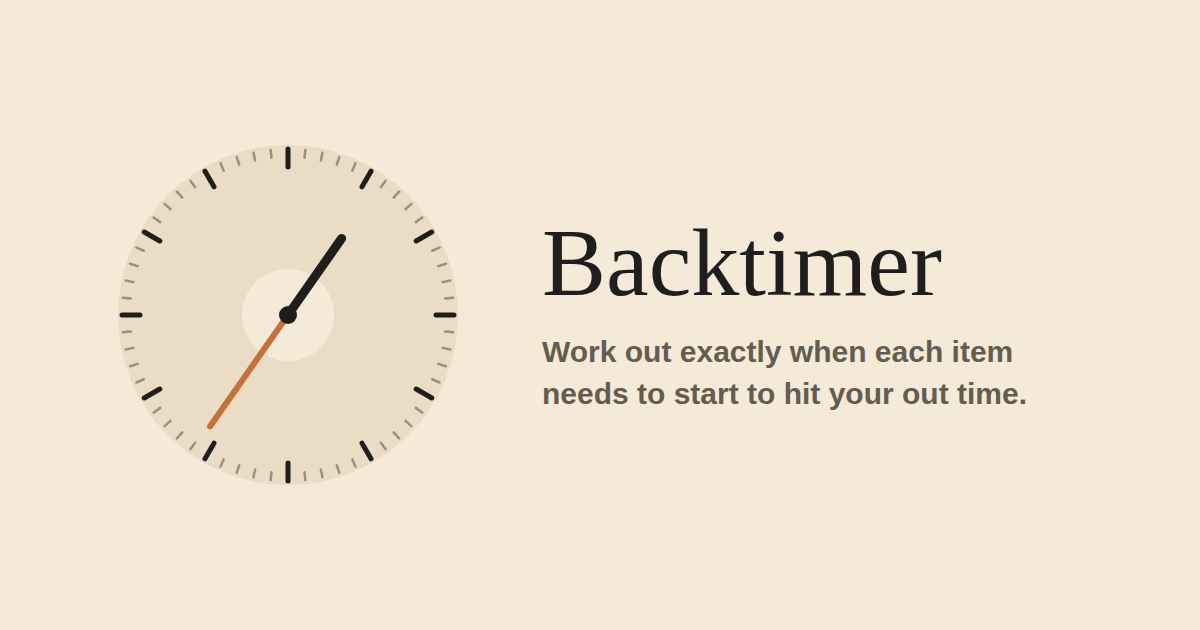
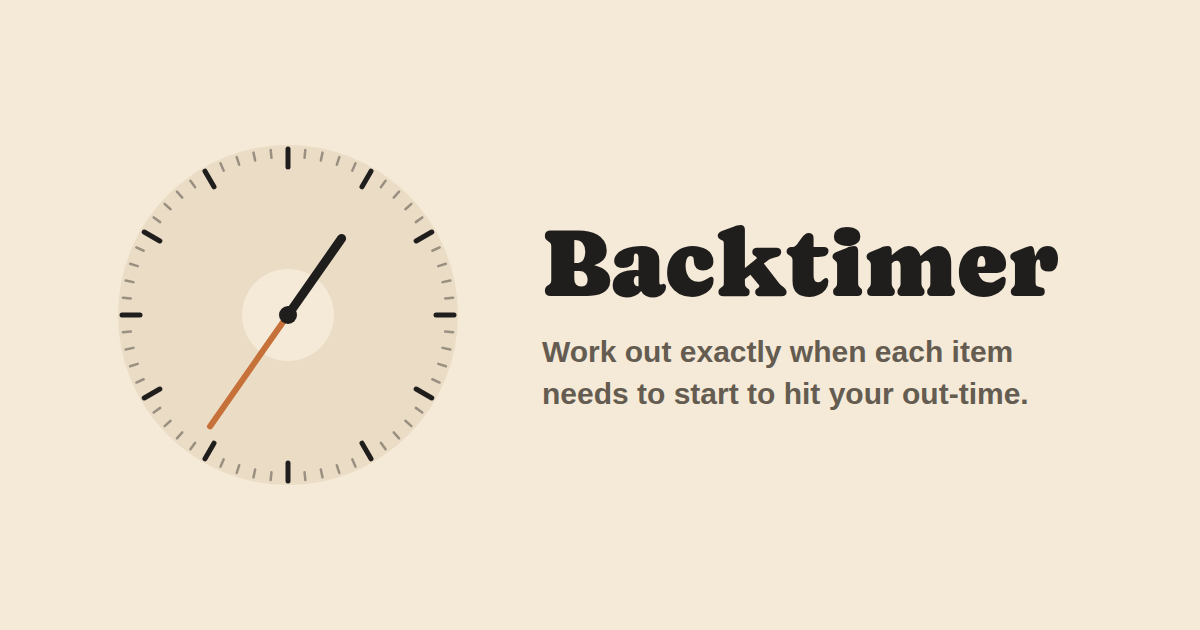
Rebuild og-backtimer.png with the actual brand font
It was quietly falling back to a generic serif instead of Caprasimo —
the old template loaded the font from Google Fonts over the network,
which this sandbox has never had access to, so it always silently
failed. Rebuilt using the same self-hosted-font approach already used
for og-clockmaker.png, and fixed "out time" -> "out-time" in the
tagline while in there (missed during the earlier hyphenation pass,
since that text is baked into the image, not read from a meta tag).

Claude-Session: https://claude.ai/code/session_01Hv3vzi3N2KXvuJUw6Q1r4e

Changed region(s): [[0.4317, 0.3619, 0.8942, 0.4825], [0.7708, 0.6032, 0.8633, 0.6635]]

diff --git a/CLAUDE.md b/CLAUDE.md
@@ -2377,3 +2377,54 @@ shipped slightly ahead of this. As of this commit, both are true
 together — the code that actually sends the anonymous visit data now
 exists, so once this deploys and John confirms data is flowing in
 Vercel's dashboard, the Guide text and the real behaviour are in sync.
+
+## `og-backtimer.png` rebuilt — was silently missing its brand font (2026-10-06)
+
+John spotted it himself, from real WhatsApp link-preview screenshots:
+Clockmaker's shared-link card showed "Clockmaker" in the bold Caprasimo
+display font, but Backtimer's card showed "Backtimer" in a plain
+generic serif — visibly inconsistent between the two apps' previews.
+
+Root cause, found by reading the actual two PNGs pixel-for-pixel rather
+than guessing from the file list: `og-clockmaker.png` was rebuilt on
+2026-10-04 (see that entry above) using a template that loads Caprasimo
+from a **local, self-hosted file** (`node_modules/@fontsource/
+caprasimo/.../*.woff2` via a `file://` URL) — specifically so it
+doesn't depend on network access. `og-backtimer.png` was never
+rebuilt at that time and still came from the *original* template
+(`og_template.html`, from the very first per-domain-OG-image work,
+2026-09-29), which loaded Caprasimo with a live `@import
+url('https://fonts.googleapis.com/...')`. This sandbox has no general
+outbound network access (confirmed repeatedly elsewhere in this
+project) — so that `@import` has always silently failed here, and the
+browser fell back to a plain generic `serif` for the title, which is
+exactly what shipped. Nobody caught it at the time because the
+original build never had anything to visually compare it against.
+
+**Also found and fixed while rebuilding it**: the image's tagline text
+still read "...to hit your out time." (unhyphenated) — missed during
+the 2026-10-04 "out-time" hyphenation pass, since that work correctly
+caught the matching text in `backtimer.html`'s `<meta>` tag but didn't
+think to check this image, where the same words are separately baked
+in as rendered pixels, not read from the tag at all.
+
+Fix: new template (not reusing `og-clockmaker-template.html` directly,
+since Backtimer's clock illustration is its own fine-ticked SVG design
+from the original `og_template.html`, deliberately not touched/
+redesigned here — only the font-loading mechanism and the text were
+wrong) — same `@font-face { src: url('file://...') }` self-hosted
+Caprasimo approach as `og-clockmaker.png`, same clock SVG/hand angles
+Backtimer's image always had, title text unchanged ("Backtimer"),
+tagline corrected to "...to hit your out-time." Rendered with
+Playwright at the same 1200×630, same as every other OG image in this
+project.
+
+Built and screenshotted for approval before touching the real file —
+same pattern as every other image asset in this project (favicons, the
+Clockmaker OG rebuild). John confirmed before it was wired in.
+
+Verified after wiring: fetched `/og-backtimer.png` from a built `vite
+preview` (200, `image/png`) and confirmed `backtimer.html`'s `og:image`
+tag still correctly points at it (unchanged path, only the file's
+contents changed) — same filename, so no HTML/meta changes were needed
+anywhere, just the asset itself.
